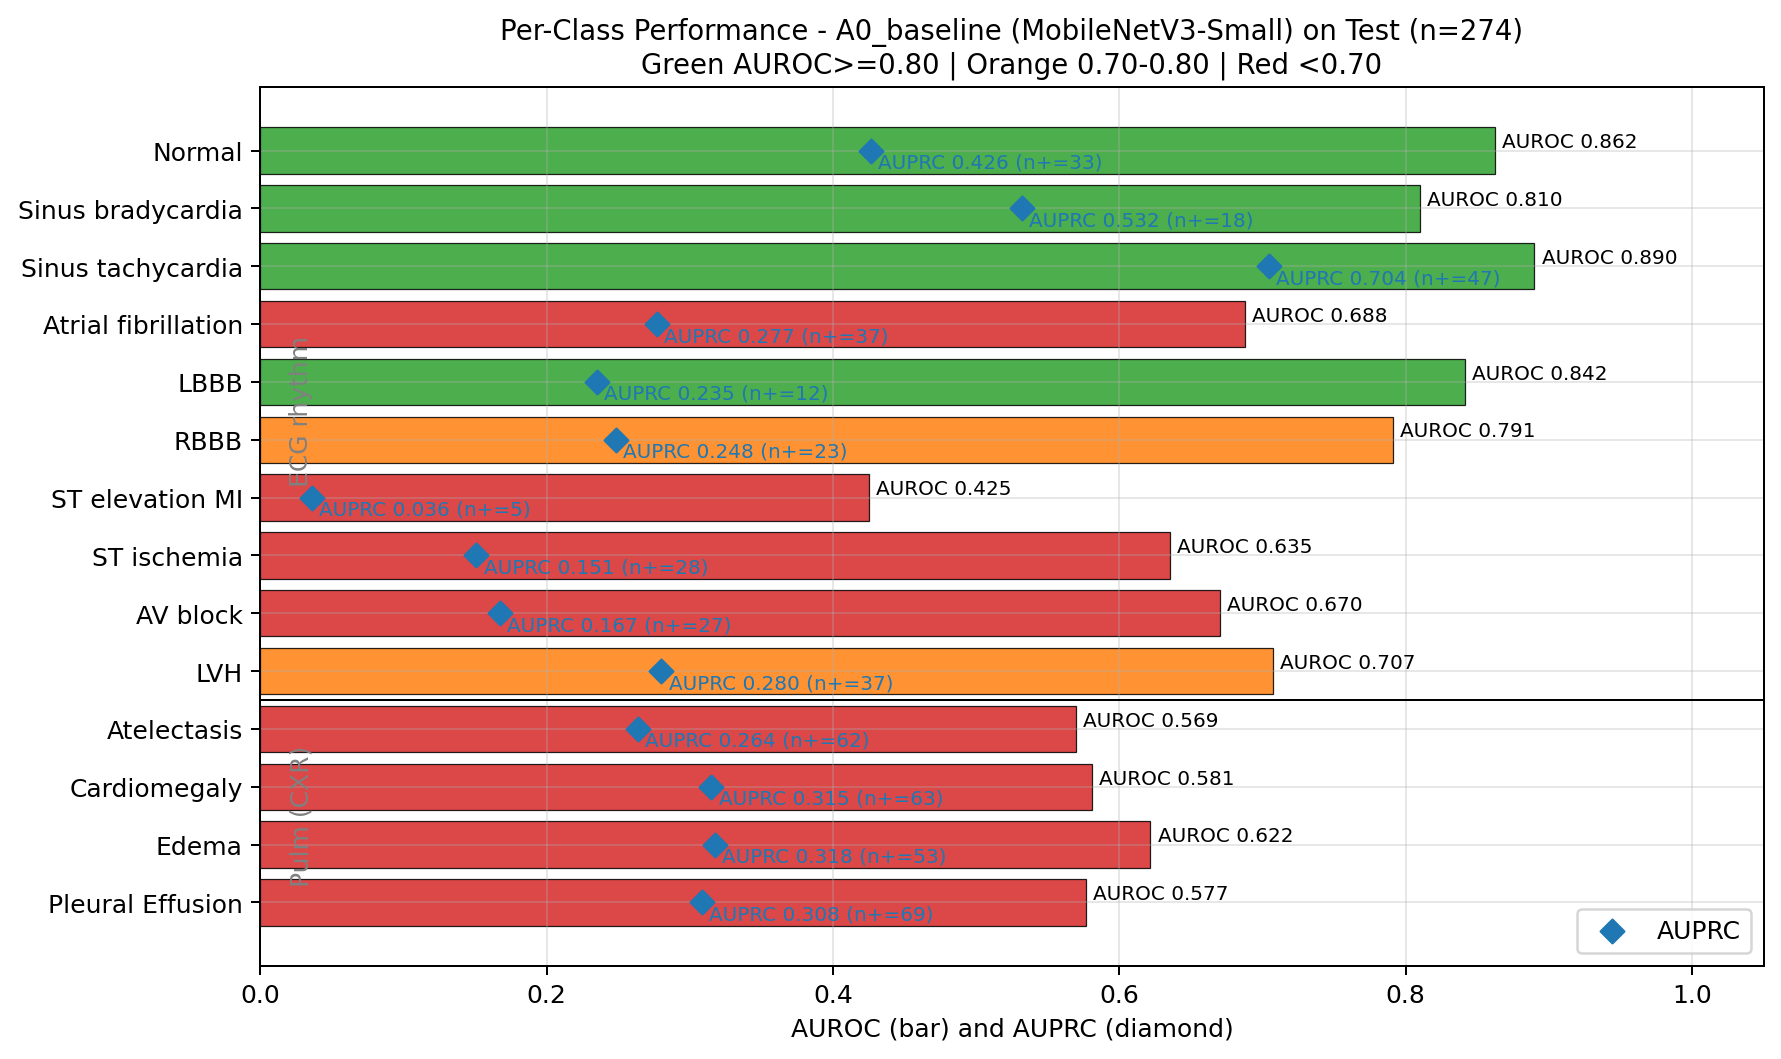
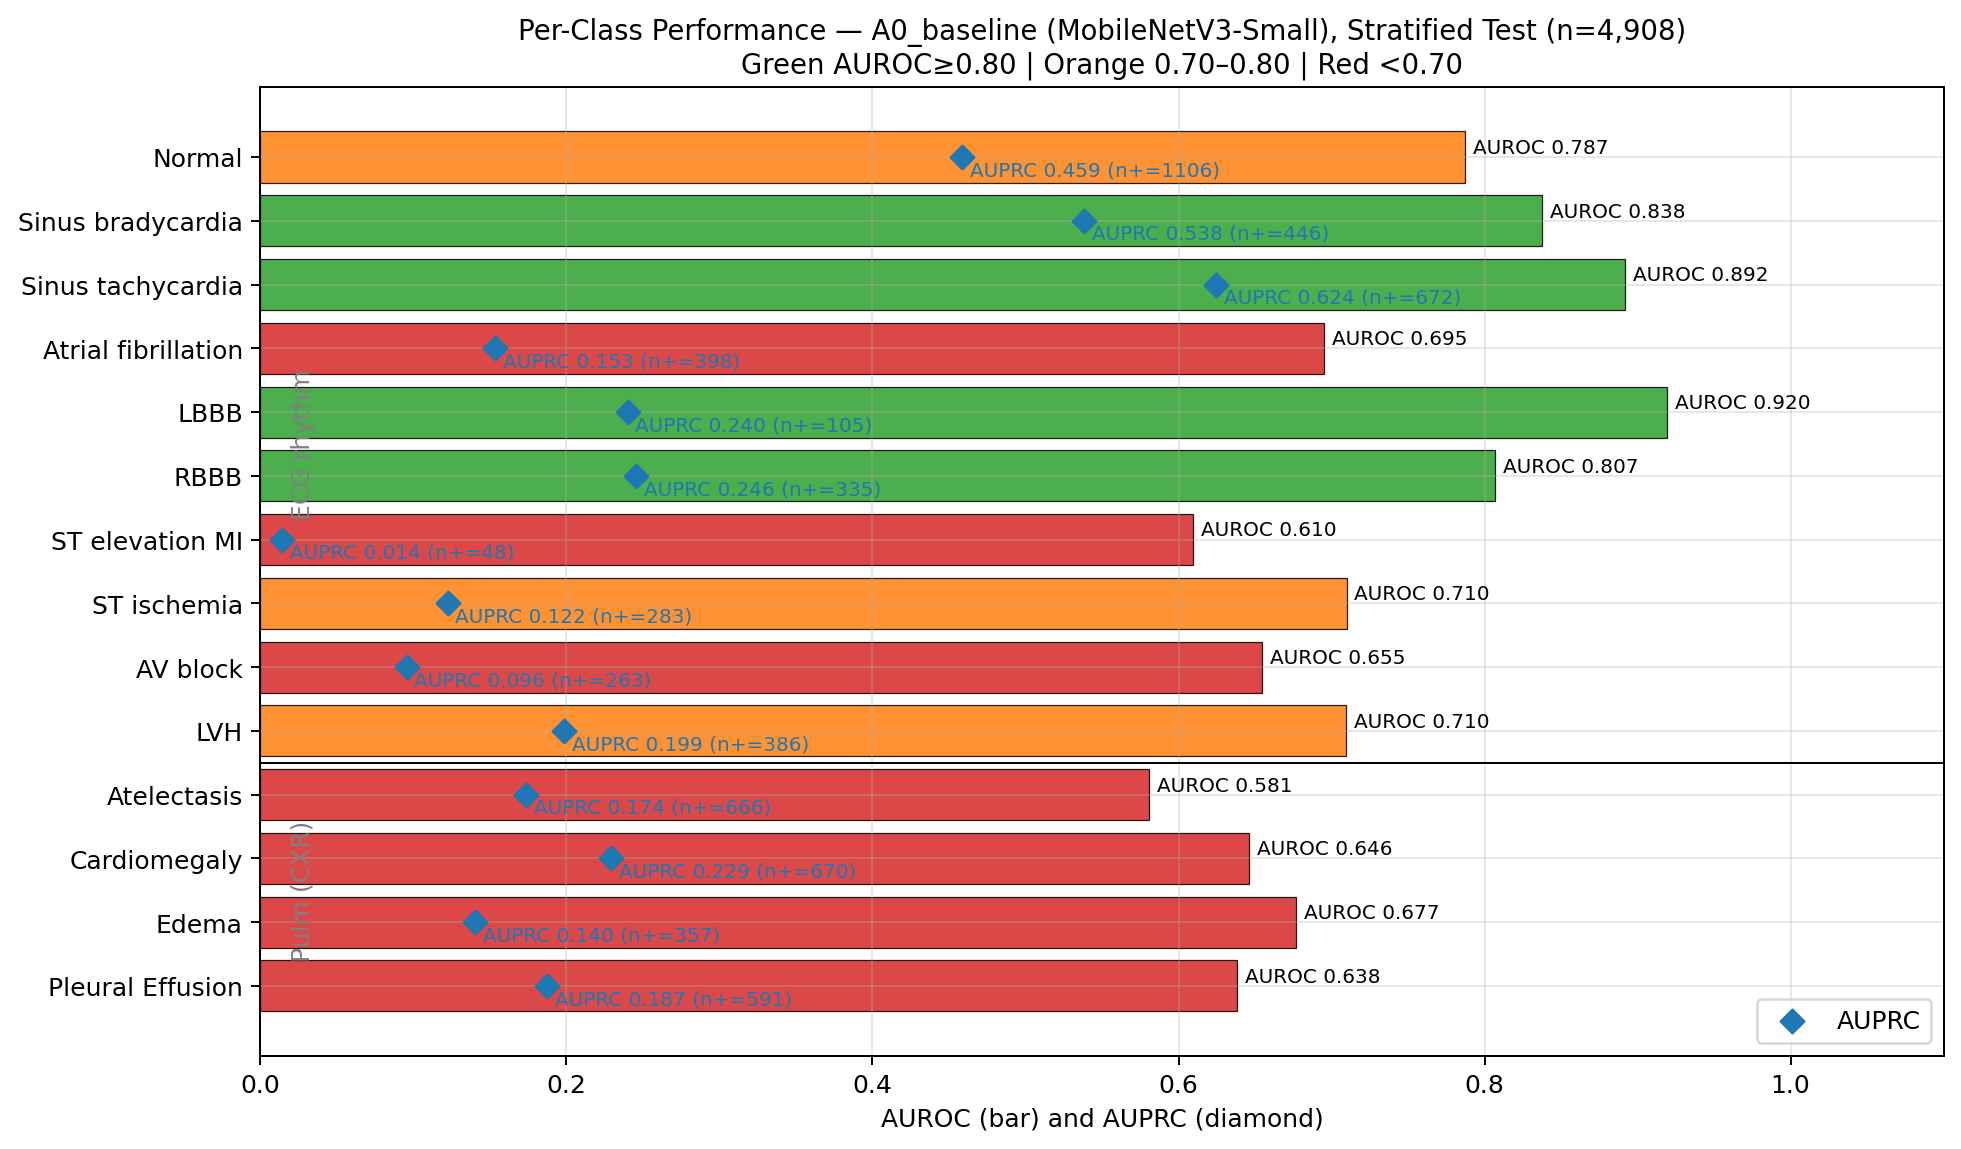
Fix report figures: parse logs correctly, add EfficientNet per-class plot
- Fix Fig4/Fig5 empty: strip _strat suffix in parse_log() so log files
  (named A0_baseline_18447854.log) are found correctly
- Fix Fig6 to use A0_baseline_strat eval JSON (n=4,908 stratified test)
  instead of legacy n=274 JSON
- Add Fig6b_PerClass_AUROC_B0.png: per-class AUROC/AUPRC strip for
  EfficientNet-B0 on stratified test (n=4,908)
- Refactor into shared _per_class_plot() helper; update axis/title text
- Regenerate all five PNG figures from stratified results

Changed region(s): [[0.0, 0.0, 1.0, 0.9972]]

diff --git a/scripts/generate_report_figures.py b/scripts/generate_report_figures.py
@@ -2,10 +2,11 @@
 scripts/generate_report_figures.py
 
 Build the report figures from training logs + collected ablation results:
-  figures/Fig4_Ablation_AUROC.png  - grouped horizontal bar chart of ECG/Pulm AUROC
-  figures/Fig5_Training_Curves.png - val AUROC vs epoch overlay for all 7 runs
-  figures/Fig6_PerClass_AUROC.png  - per-class AUROC heat strip for A0_baseline
-  figures/Fig7_Latency_vs_AUROC.png - tradeoff plot (CPU latency vs AUROC)
+  figures/Fig4_Ablation_AUROC.png         - grouped horizontal bar chart of ECG/Pulm AUROC
+  figures/Fig5_Training_Curves.png        - val AUROC vs epoch overlay for all 7 runs
+  figures/Fig6_PerClass_AUROC.png         - per-class AUROC strip for A0_baseline (strat)
+  figures/Fig6b_PerClass_AUROC_B0.png     - per-class AUROC strip for A0_efficientnet (strat)
+  figures/Fig7_Latency_vs_AUROC.png       - tradeoff plot (CPU latency vs AUROC)
 
 Usage:
     cd /scratch/user/dshekar/more-clinical-distill
@@ -49,7 +50,9 @@ EPOCH_RE = re.compile(
 
 
 def parse_log(run_name):
-    pattern = LOGDIR / f"{run_name}_*.log"
+    # Log files are named without the _strat suffix (e.g. A0_baseline_18447854.log)
+    log_prefix = run_name.replace("_strat", "")
+    pattern = LOGDIR / f"{log_prefix}_*.log"
     logs = sorted(pattern.parent.glob(pattern.name))
     if not logs:
         return None
@@ -110,7 +113,7 @@ def fig_ablation_bar():
     ax.set_xlim(0.40, 0.92)
     ax.set_xlabel("Macro AUROC")
     ax.set_title("Single-Lead ECG Student - Ablation Sweep\n"
-                 "Val (n=379) and Test (n=274), best epoch via early stopping",
+                 "Patient-stratified split: Val (n=4,908) and Test (n=4,908), best epoch via early stopping",
                  fontsize=11)
     ax.legend(loc="lower right", framealpha=0.95, fontsize=9)
     fig.tight_layout()
@@ -162,11 +165,11 @@ def fig_training_curves():
     print("wrote", out)
 
 
-# ---------- Fig6: per-class AUROC strip (A0_baseline) ----------
-def fig_per_class():
-    ev = load_eval_json("A0_baseline")
+# ---------- shared helper: per-class AUROC strip ----------
+def _per_class_plot(run_name, title, out_path):
+    ev = load_eval_json(run_name)
     if ev is None:
-        print("skip Fig6: A0_baseline metrics JSON not found")
+        print(f"skip {out_path.name}: {run_name} metrics JSON not found")
         return
     classes = [c["class"] for c in ev["ecg"]["per_class"]] + \
               [c["class"] for c in ev["pulm"]["per_class"]]
@@ -179,7 +182,7 @@ def fig_per_class():
 
     n = len(classes)
     y = np.arange(n)
-    fig, ax = plt.subplots(figsize=(10, 6))
+    fig, ax = plt.subplots(figsize=(11, 6.5))
     colours = ["#2ca02c" if v >= 0.80 else ("#ff7f0e" if v >= 0.70 else "#d62728")
                for v in aurocs]
     ax.barh(y, aurocs, color=colours, alpha=0.85, edgecolor="black", linewidth=0.5)
@@ -191,21 +194,38 @@ def fig_per_class():
                 va="center", fontsize=8, color="#1f77b4")
 
     ax.axhline(9.5, color="black", linewidth=0.8)
-    ax.text(0.02, 4.5,  "ECG rhythm",      rotation=90, va="center", fontsize=10, color="grey")
-    ax.text(0.02, 11.5, "Pulm (CXR)",      rotation=90, va="center", fontsize=10, color="grey")
+    ax.text(0.02, 4.5,  "ECG rhythm", rotation=90, va="center", fontsize=10, color="grey")
+    ax.text(0.02, 11.5, "Pulm (CXR)", rotation=90, va="center", fontsize=10, color="grey")
     ax.set_yticks(y, classes)
     ax.invert_yaxis()
-    ax.set_xlim(0.0, 1.05)
+    ax.set_xlim(0.0, 1.10)
     ax.set_xlabel("AUROC (bar) and AUPRC (diamond)")
-    ax.set_title("Per-Class Performance - A0_baseline (MobileNetV3-Small) on Test (n=274)\n"
-                 "Green AUROC>=0.80 | Orange 0.70-0.80 | Red <0.70",
-                 fontsize=11)
+    ax.set_title(title, fontsize=11)
     ax.legend(loc="lower right")
     fig.tight_layout()
-    out = OUT / "Fig6_PerClass_AUROC.png"
-    fig.savefig(out, dpi=180, bbox_inches="tight")
+    fig.savefig(out_path, dpi=180, bbox_inches="tight")
     plt.close(fig)
-    print("wrote", out)
+    print("wrote", out_path)
+
+
+# ---------- Fig6: per-class AUROC strip (A0_baseline, stratified) ----------
+def fig_per_class():
+    _per_class_plot(
+        "A0_baseline_strat",
+        "Per-Class Performance — A0_baseline (MobileNetV3-Small), Stratified Test (n=4,908)\n"
+        "Green AUROC≥0.80 | Orange 0.70–0.80 | Red <0.70",
+        OUT / "Fig6_PerClass_AUROC.png",
+    )
+
+
+# ---------- Fig6b: per-class AUROC strip (A0_efficientnet, stratified) ----------
+def fig_per_class_efficientnet():
+    _per_class_plot(
+        "A0_efficientnet_strat",
+        "Per-Class Performance — A0_efficientnet (EfficientNet-B0), Stratified Test (n=4,908)\n"
+        "Green AUROC≥0.80 | Orange 0.70–0.80 | Red <0.70",
+        OUT / "Fig6b_PerClass_AUROC_B0.png",
+    )
 
 
 # ---------- Fig7: latency vs AUROC tradeoff ----------
@@ -258,5 +278,6 @@ if __name__ == "__main__":
     fig_ablation_bar()
     fig_training_curves()
     fig_per_class()
+    fig_per_class_efficientnet()
     fig_latency_tradeoff()
     print("All figures in", OUT)
